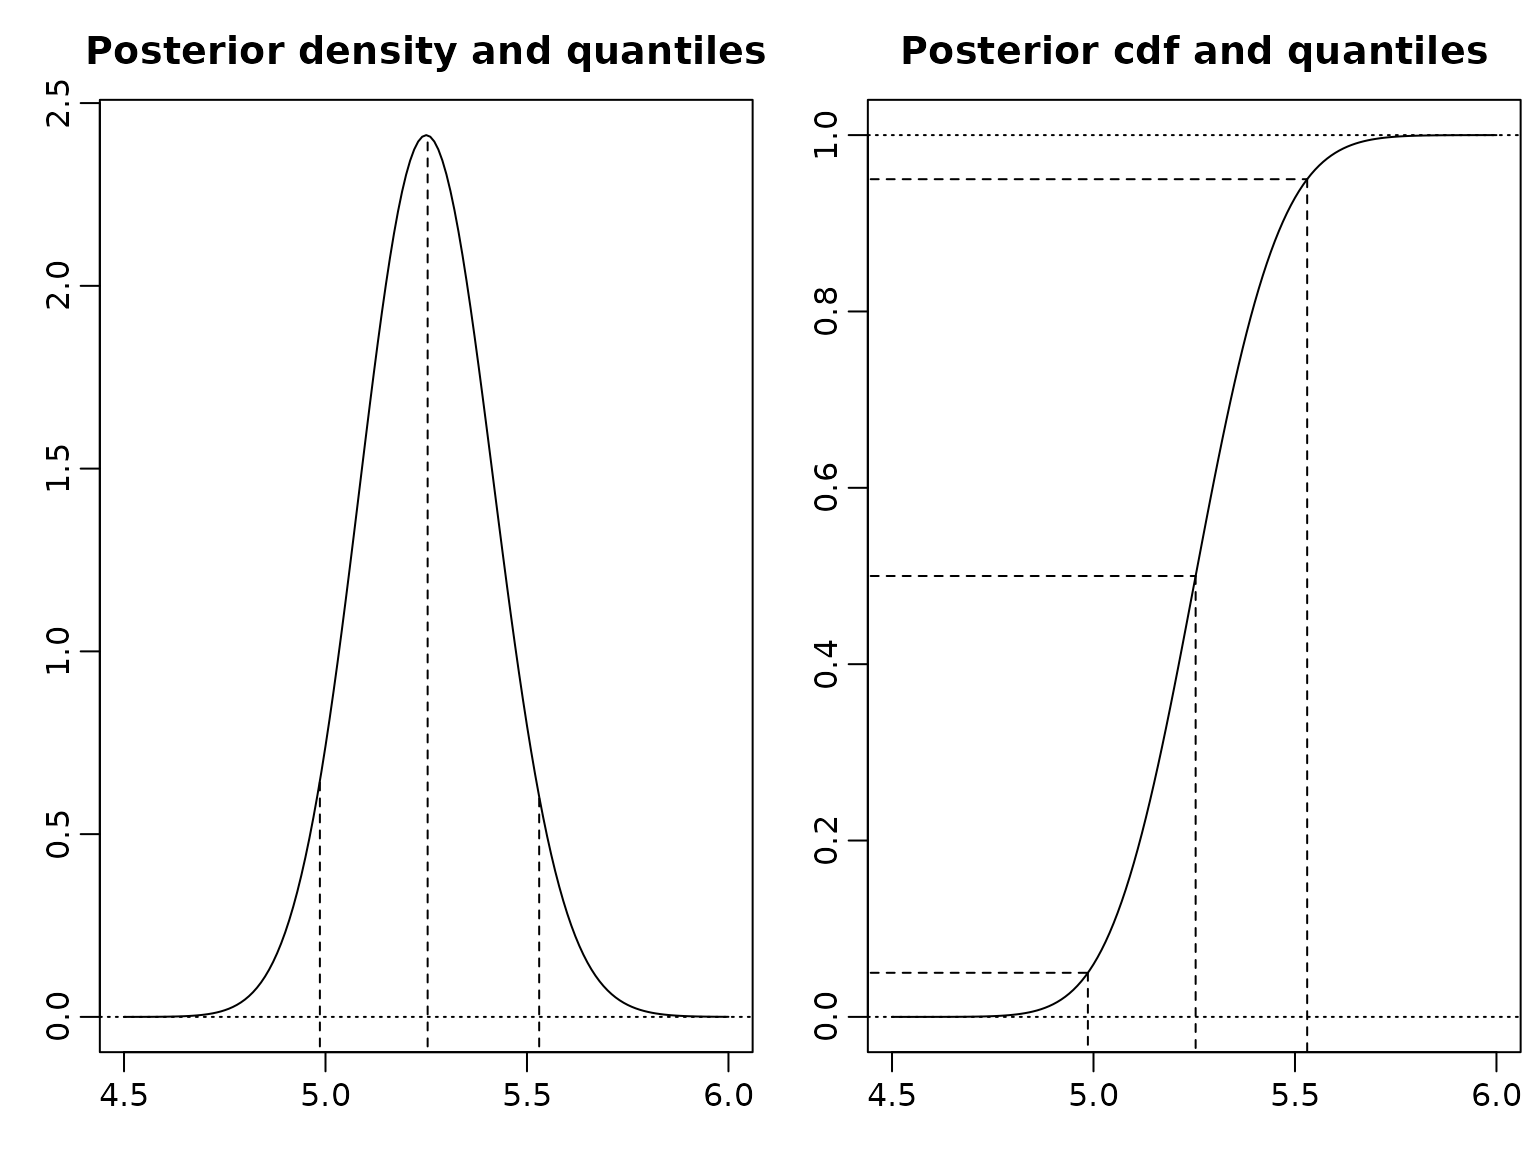
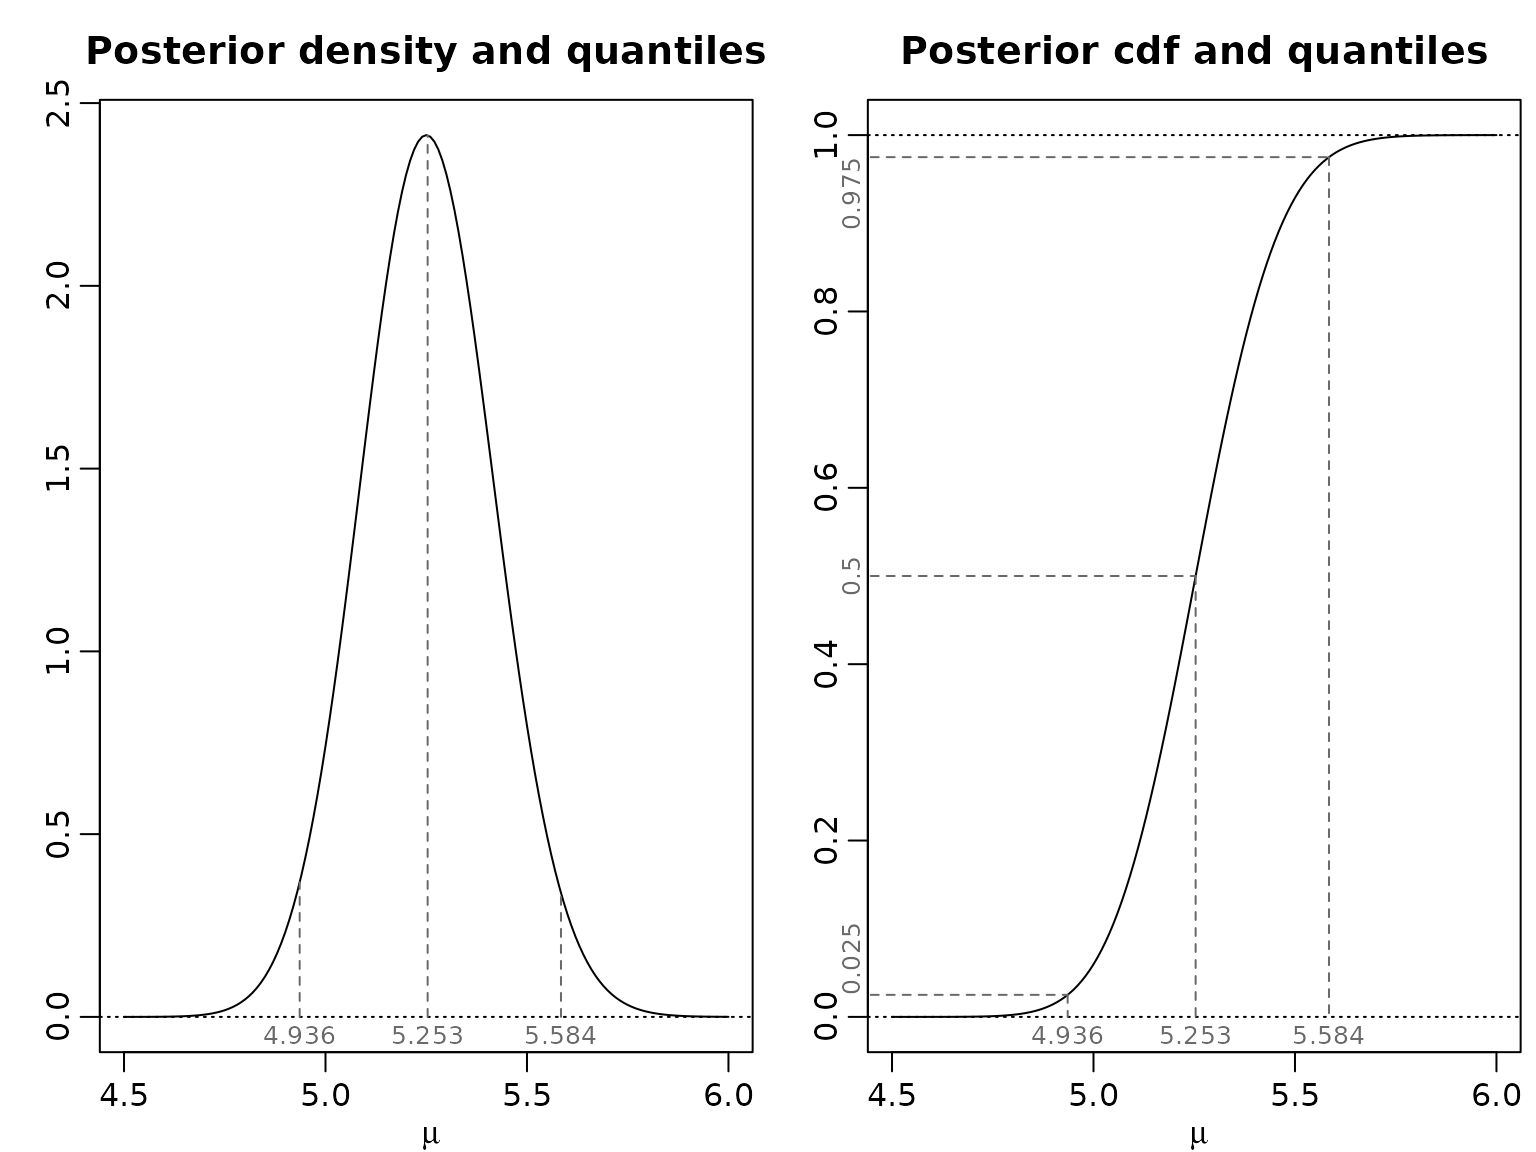
Deploying to gh-pages from @ gregorkastner/BayesianLearningCode@9eb153d684c14a89096cbc33a3e6a927a2568a2b 🚀

diff --git a/articles/Chapter02.html b/articles/Chapter02.html
@@ -84,7 +84,7 @@
 <span><span class="co">#&gt;  Mean   :1.839      Mean   :8856      Mean   : 5.25     Mean   :43890   </span></span>
 <span><span class="co">#&gt;  3rd Qu.:3.000      3rd Qu.:9103      3rd Qu.: 7.00     3rd Qu.:44264   </span></span>
 <span><span class="co">#&gt;  Max.   :5.000      Max.   :9204      Max.   :15.00     Max.   :44671</span></span>
-<span><span class="fu"><a href="https://rdrr.io/r/graphics/plot.default.html" class="external-link">plot</a></span><span class="op">(</span><span class="va">accidents</span><span class="op">[</span>,<span class="fl">1</span><span class="op">:</span><span class="fl">2</span><span class="op">]</span>, mar <span class="op">=</span> <span class="fu"><a href="https://rdrr.io/r/base/c.html" class="external-link">c</a></span><span class="op">(</span><span class="fl">0</span>, <span class="fl">0</span>, <span class="fl">0</span>, <span class="fl">0</span><span class="op">)</span>, oma <span class="op">=</span> <span class="fu"><a href="https://rdrr.io/r/base/c.html" class="external-link">c</a></span><span class="op">(</span><span class="fl">3</span>, <span class="fl">3</span>, <span class="fl">1.5</span>, <span class="fl">.1</span><span class="op">)</span>,</span>
+<span><span class="fu"><a href="https://rdrr.io/r/graphics/plot.default.html" class="external-link">plot</a></span><span class="op">(</span><span class="va">accidents</span><span class="op">[</span>,<span class="fu"><a href="https://rdrr.io/r/base/c.html" class="external-link">c</a></span><span class="op">(</span><span class="st">"children_accidents"</span>, <span class="st">"children_exposure"</span><span class="op">)</span><span class="op">]</span>, mar <span class="op">=</span> <span class="fu"><a href="https://rdrr.io/r/base/c.html" class="external-link">c</a></span><span class="op">(</span><span class="fl">0</span>, <span class="fl">0</span>, <span class="fl">0</span>, <span class="fl">0</span><span class="op">)</span>, oma <span class="op">=</span> <span class="fu"><a href="https://rdrr.io/r/base/c.html" class="external-link">c</a></span><span class="op">(</span><span class="fl">3</span>, <span class="fl">3</span>, <span class="fl">1.5</span>, <span class="fl">.1</span><span class="op">)</span>,</span>
 <span>     main <span class="op">=</span> <span class="st">""</span>, xlab <span class="op">=</span> <span class="st">""</span>, ylab <span class="op">=</span> <span class="st">""</span>, ann <span class="op">=</span> <span class="cn">FALSE</span><span class="op">)</span></span>
 <span><span class="fu"><a href="https://rdrr.io/r/graphics/title.html" class="external-link">title</a></span><span class="op">(</span><span class="st">"Road accidents involving pedestrian children"</span>, line <span class="op">=</span> <span class="fl">1.7</span><span class="op">)</span></span>
 <span><span class="fu"><a href="https://rdrr.io/r/graphics/mtext.html" class="external-link">mtext</a></span><span class="op">(</span><span class="fu"><a href="https://rdrr.io/r/base/c.html" class="external-link">c</a></span><span class="op">(</span><span class="st">"Accidents"</span>, <span class="st">"Exposure"</span><span class="op">)</span>, side <span class="op">=</span> <span class="fl">2</span>, line <span class="op">=</span> <span class="fl">1.5</span>, adj <span class="op">=</span> <span class="fu"><a href="https://rdrr.io/r/base/c.html" class="external-link">c</a></span><span class="op">(</span><span class="fl">0.77</span>, <span class="fl">0.29</span><span class="op">)</span><span class="op">)</span></span>
@@ -92,7 +92,7 @@
 <p><img src="Chapter02_files/figure-html/unnamed-chunk-3-1.png" width="768"></p>
 <div class="sourceCode" id="cb2"><pre class="downlit sourceCode r">
 <code class="sourceCode R"><span></span>
-<span><span class="fu"><a href="https://rdrr.io/r/graphics/plot.default.html" class="external-link">plot</a></span><span class="op">(</span><span class="va">accidents</span><span class="op">[</span>,<span class="fl">3</span><span class="op">:</span><span class="fl">4</span><span class="op">]</span>, mar <span class="op">=</span> <span class="fu"><a href="https://rdrr.io/r/base/c.html" class="external-link">c</a></span><span class="op">(</span><span class="fl">0</span>, <span class="fl">0</span>, <span class="fl">0</span>, <span class="fl">0</span><span class="op">)</span>, oma <span class="op">=</span> <span class="fu"><a href="https://rdrr.io/r/base/c.html" class="external-link">c</a></span><span class="op">(</span><span class="fl">3</span>, <span class="fl">3</span>, <span class="fl">1.5</span>, <span class="fl">.1</span><span class="op">)</span>,</span>
+<span><span class="fu"><a href="https://rdrr.io/r/graphics/plot.default.html" class="external-link">plot</a></span><span class="op">(</span><span class="va">accidents</span><span class="op">[</span>,<span class="fu"><a href="https://rdrr.io/r/base/c.html" class="external-link">c</a></span><span class="op">(</span><span class="st">"seniors_accidents"</span>, <span class="st">"seniors_exposure"</span><span class="op">)</span><span class="op">]</span>, mar <span class="op">=</span> <span class="fu"><a href="https://rdrr.io/r/base/c.html" class="external-link">c</a></span><span class="op">(</span><span class="fl">0</span>, <span class="fl">0</span>, <span class="fl">0</span>, <span class="fl">0</span><span class="op">)</span>, oma <span class="op">=</span> <span class="fu"><a href="https://rdrr.io/r/base/c.html" class="external-link">c</a></span><span class="op">(</span><span class="fl">3</span>, <span class="fl">3</span>, <span class="fl">1.5</span>, <span class="fl">.1</span><span class="op">)</span>,</span>
 <span>     main <span class="op">=</span> <span class="st">""</span>, xlab <span class="op">=</span> <span class="st">""</span>, ylab <span class="op">=</span> <span class="st">""</span>, ann <span class="op">=</span> <span class="cn">FALSE</span><span class="op">)</span></span>
 <span><span class="fu"><a href="https://rdrr.io/r/graphics/title.html" class="external-link">title</a></span><span class="op">(</span><span class="st">"Road accidents involving pedestrian seniors"</span>, line <span class="op">=</span> <span class="fl">1.7</span><span class="op">)</span></span>
 <span><span class="fu"><a href="https://rdrr.io/r/graphics/mtext.html" class="external-link">mtext</a></span><span class="op">(</span><span class="fu"><a href="https://rdrr.io/r/base/c.html" class="external-link">c</a></span><span class="op">(</span><span class="st">"Accidents"</span>, <span class="st">"Exposure"</span><span class="op">)</span>, side <span class="op">=</span> <span class="fl">2</span>, line <span class="op">=</span> <span class="fl">1.5</span>, adj <span class="op">=</span> <span class="fu"><a href="https://rdrr.io/r/base/c.html" class="external-link">c</a></span><span class="op">(</span><span class="fl">0.77</span>, <span class="fl">0.29</span><span class="op">)</span><span class="op">)</span></span>
@@ -106,30 +106,35 @@
 <math display="block" xmlns="http://www.w3.org/1998/Math/MathML"><semantics><mrow><mi>μ</mi><mo stretchy="false" form="prefix">|</mo><mi>𝐲</mi><mo>∼</mo><mi>𝒢</mi><mrow><mo stretchy="true" form="prefix">(</mo><mi>N</mi><mover><mi>y</mi><mo accent="true">‾</mo></mover><mo>+</mo><mn>1</mn><mo>,</mo><mi>N</mi><mo stretchy="true" form="postfix">)</mo></mrow><mo>,</mo></mrow><annotation encoding="application/x-tex">
 \mu|\mathbf{y} \sim \mathcal G(N\bar y + 1, N),
 </annotation></semantics></math> which we visualize for the seniors,
-along with the 0.05-, the 0.5-, and the 0.95-quantile.</p>
+along with the 0.025-, the 0.5-, and the 0.975-quantile.</p>
 <div class="sourceCode" id="cb3"><pre class="downlit sourceCode r">
 <code class="sourceCode R"><span><span class="va">y</span> <span class="op">&lt;-</span> <span class="va">accidents</span><span class="op">[</span>,<span class="st">"seniors_accidents"</span><span class="op">]</span></span>
 <span><span class="va">aN</span> <span class="op">&lt;-</span> <span class="fu"><a href="https://rdrr.io/r/base/sum.html" class="external-link">sum</a></span><span class="op">(</span><span class="va">y</span><span class="op">)</span> <span class="op">+</span> <span class="fl">1</span></span>
 <span><span class="va">bN</span> <span class="op">&lt;-</span> <span class="fu"><a href="https://rdrr.io/r/base/length.html" class="external-link">length</a></span><span class="op">(</span><span class="va">y</span><span class="op">)</span></span>
 <span></span>
 <span><span class="va">x</span> <span class="op">&lt;-</span> <span class="fu"><a href="https://rdrr.io/r/base/seq.html" class="external-link">seq</a></span><span class="op">(</span><span class="fl">4.5</span>, <span class="fl">6</span>, by <span class="op">=</span> <span class="fl">0.01</span><span class="op">)</span></span>
-<span><span class="fu"><a href="https://rdrr.io/r/graphics/plot.default.html" class="external-link">plot</a></span><span class="op">(</span><span class="va">x</span>, <span class="fu"><a href="https://rdrr.io/r/stats/GammaDist.html" class="external-link">dgamma</a></span><span class="op">(</span><span class="va">x</span>, <span class="va">aN</span>, <span class="va">bN</span><span class="op">)</span>, type <span class="op">=</span> <span class="st">"l"</span>, xlab <span class="op">=</span> <span class="st">""</span>, ylab <span class="op">=</span> <span class="st">""</span>,</span>
+<span><span class="fu"><a href="https://rdrr.io/r/graphics/plot.default.html" class="external-link">plot</a></span><span class="op">(</span><span class="va">x</span>, <span class="fu"><a href="https://rdrr.io/r/stats/GammaDist.html" class="external-link">dgamma</a></span><span class="op">(</span><span class="va">x</span>, <span class="va">aN</span>, <span class="va">bN</span><span class="op">)</span>, type <span class="op">=</span> <span class="st">"l"</span>, xlab <span class="op">=</span> <span class="fu"><a href="https://rdrr.io/r/base/expression.html" class="external-link">expression</a></span><span class="op">(</span><span class="va">mu</span><span class="op">)</span>, ylab <span class="op">=</span> <span class="st">""</span>,</span>
 <span>     main <span class="op">=</span> <span class="st">"Posterior density and quantiles"</span><span class="op">)</span></span>
 <span><span class="fu"><a href="https://rdrr.io/r/graphics/abline.html" class="external-link">abline</a></span><span class="op">(</span>h <span class="op">=</span> <span class="fl">0</span>, lty <span class="op">=</span> <span class="fl">3</span><span class="op">)</span></span>
 <span></span>
-<span><span class="va">probs</span> <span class="op">&lt;-</span> <span class="fu"><a href="https://rdrr.io/r/base/c.html" class="external-link">c</a></span><span class="op">(</span><span class="fl">0.05</span>, <span class="fl">.5</span>, <span class="fl">.95</span><span class="op">)</span></span>
+<span><span class="va">probs</span> <span class="op">&lt;-</span> <span class="fu"><a href="https://rdrr.io/r/base/c.html" class="external-link">c</a></span><span class="op">(</span><span class="fl">0.025</span>, <span class="fl">.5</span>, <span class="fl">.975</span><span class="op">)</span></span>
 <span><span class="va">qs</span> <span class="op">&lt;-</span> <span class="fu"><a href="https://rdrr.io/r/stats/GammaDist.html" class="external-link">qgamma</a></span><span class="op">(</span><span class="va">probs</span>, <span class="va">aN</span>, <span class="va">bN</span><span class="op">)</span></span>
 <span><span class="va">ds</span> <span class="op">&lt;-</span> <span class="fu"><a href="https://rdrr.io/r/stats/GammaDist.html" class="external-link">dgamma</a></span><span class="op">(</span><span class="va">qs</span>, <span class="va">aN</span>, <span class="va">bN</span><span class="op">)</span></span>
 <span></span>
-<span><span class="kw">for</span> <span class="op">(</span><span class="va">i</span> <span class="kw">in</span> <span class="fu"><a href="https://rdrr.io/r/base/seq.html" class="external-link">seq_along</a></span><span class="op">(</span><span class="va">probs</span><span class="op">)</span><span class="op">)</span> <span class="fu"><a href="https://rdrr.io/r/graphics/lines.html" class="external-link">lines</a></span><span class="op">(</span><span class="fu"><a href="https://rdrr.io/r/base/c.html" class="external-link">c</a></span><span class="op">(</span><span class="va">qs</span><span class="op">[</span><span class="va">i</span><span class="op">]</span>, <span class="va">qs</span><span class="op">[</span><span class="va">i</span><span class="op">]</span><span class="op">)</span>, <span class="fu"><a href="https://rdrr.io/r/base/c.html" class="external-link">c</a></span><span class="op">(</span><span class="op">-</span><span class="fl">1</span>, <span class="va">ds</span><span class="op">[</span><span class="va">i</span><span class="op">]</span><span class="op">)</span>, lty <span class="op">=</span> <span class="fl">2</span><span class="op">)</span></span>
+<span><span class="kw">for</span> <span class="op">(</span><span class="va">i</span> <span class="kw">in</span> <span class="fu"><a href="https://rdrr.io/r/base/seq.html" class="external-link">seq_along</a></span><span class="op">(</span><span class="va">probs</span><span class="op">)</span><span class="op">)</span> <span class="op">{</span></span>
+<span>  <span class="fu"><a href="https://rdrr.io/r/graphics/lines.html" class="external-link">lines</a></span><span class="op">(</span><span class="fu"><a href="https://rdrr.io/r/base/c.html" class="external-link">c</a></span><span class="op">(</span><span class="va">qs</span><span class="op">[</span><span class="va">i</span><span class="op">]</span>, <span class="va">qs</span><span class="op">[</span><span class="va">i</span><span class="op">]</span><span class="op">)</span>, <span class="fu"><a href="https://rdrr.io/r/base/c.html" class="external-link">c</a></span><span class="op">(</span><span class="fl">0</span>, <span class="va">ds</span><span class="op">[</span><span class="va">i</span><span class="op">]</span><span class="op">)</span>, lty <span class="op">=</span> <span class="fl">2</span>, col <span class="op">=</span> <span class="st">"dimgrey"</span><span class="op">)</span></span>
+<span><span class="op">}</span></span>
+<span><span class="fu"><a href="https://rdrr.io/r/graphics/mtext.html" class="external-link">mtext</a></span><span class="op">(</span><span class="fu"><a href="https://rdrr.io/r/base/Round.html" class="external-link">round</a></span><span class="op">(</span><span class="va">qs</span>, <span class="fl">3</span><span class="op">)</span>, side <span class="op">=</span> <span class="fl">1</span>, at <span class="op">=</span> <span class="va">qs</span>, line <span class="op">=</span> <span class="op">-</span><span class="fl">1</span>, cex <span class="op">=</span> <span class="fl">0.8</span>, col <span class="op">=</span> <span class="st">"dimgrey"</span><span class="op">)</span></span>
 <span></span>
-<span><span class="fu"><a href="https://rdrr.io/r/graphics/plot.default.html" class="external-link">plot</a></span><span class="op">(</span><span class="va">x</span>, <span class="fu"><a href="https://rdrr.io/r/stats/GammaDist.html" class="external-link">pgamma</a></span><span class="op">(</span><span class="va">x</span>, <span class="va">aN</span>, <span class="va">bN</span><span class="op">)</span>, type <span class="op">=</span> <span class="st">"l"</span>, xlab <span class="op">=</span> <span class="st">""</span>, ylab <span class="op">=</span> <span class="st">""</span>,</span>
+<span><span class="fu"><a href="https://rdrr.io/r/graphics/plot.default.html" class="external-link">plot</a></span><span class="op">(</span><span class="va">x</span>, <span class="fu"><a href="https://rdrr.io/r/stats/GammaDist.html" class="external-link">pgamma</a></span><span class="op">(</span><span class="va">x</span>, <span class="va">aN</span>, <span class="va">bN</span><span class="op">)</span>, type <span class="op">=</span> <span class="st">"l"</span>, xlab <span class="op">=</span> <span class="fu"><a href="https://rdrr.io/r/base/expression.html" class="external-link">expression</a></span><span class="op">(</span><span class="va">mu</span><span class="op">)</span>, ylab <span class="op">=</span> <span class="st">""</span>,</span>
 <span>     main <span class="op">=</span> <span class="st">"Posterior cdf and quantiles"</span><span class="op">)</span></span>
 <span><span class="fu"><a href="https://rdrr.io/r/graphics/abline.html" class="external-link">abline</a></span><span class="op">(</span>h <span class="op">=</span> <span class="fu"><a href="https://rdrr.io/r/base/c.html" class="external-link">c</a></span><span class="op">(</span><span class="fl">0</span>, <span class="fl">1</span><span class="op">)</span>, lty <span class="op">=</span> <span class="fl">3</span><span class="op">)</span></span>
+<span><span class="fu"><a href="https://rdrr.io/r/graphics/mtext.html" class="external-link">mtext</a></span><span class="op">(</span><span class="fu"><a href="https://rdrr.io/r/base/Round.html" class="external-link">round</a></span><span class="op">(</span><span class="va">probs</span>, <span class="fl">3</span><span class="op">)</span>, side <span class="op">=</span> <span class="fl">2</span>, at <span class="op">=</span> <span class="va">probs</span>, adj <span class="op">=</span> <span class="fu"><a href="https://rdrr.io/r/base/c.html" class="external-link">c</a></span><span class="op">(</span><span class="fl">0</span>, <span class="fl">.5</span>, <span class="fl">1</span><span class="op">)</span>, cex <span class="op">=</span> <span class="fl">.8</span>, col <span class="op">=</span> <span class="st">"dimgrey"</span><span class="op">)</span></span>
+<span><span class="fu"><a href="https://rdrr.io/r/graphics/mtext.html" class="external-link">mtext</a></span><span class="op">(</span><span class="fu"><a href="https://rdrr.io/r/base/Round.html" class="external-link">round</a></span><span class="op">(</span><span class="va">qs</span>, <span class="fl">3</span><span class="op">)</span>, side <span class="op">=</span> <span class="fl">1</span>, at <span class="op">=</span> <span class="va">qs</span>, line <span class="op">=</span> <span class="op">-</span><span class="fl">1</span>, cex <span class="op">=</span> <span class="fl">0.8</span>, col <span class="op">=</span> <span class="st">"dimgrey"</span><span class="op">)</span></span>
 <span></span>
 <span><span class="kw">for</span> <span class="op">(</span><span class="va">i</span> <span class="kw">in</span> <span class="fu"><a href="https://rdrr.io/r/base/seq.html" class="external-link">seq_along</a></span><span class="op">(</span><span class="va">probs</span><span class="op">)</span><span class="op">)</span> <span class="op">{</span></span>
-<span>  <span class="fu"><a href="https://rdrr.io/r/graphics/lines.html" class="external-link">lines</a></span><span class="op">(</span><span class="fu"><a href="https://rdrr.io/r/base/c.html" class="external-link">c</a></span><span class="op">(</span><span class="fl">.9</span><span class="op">*</span><span class="fu"><a href="https://rdrr.io/r/base/Extremes.html" class="external-link">min</a></span><span class="op">(</span><span class="va">x</span><span class="op">)</span>, <span class="va">qs</span><span class="op">[</span><span class="va">i</span><span class="op">]</span><span class="op">)</span>, <span class="fu"><a href="https://rdrr.io/r/base/c.html" class="external-link">c</a></span><span class="op">(</span><span class="va">probs</span><span class="op">[</span><span class="va">i</span><span class="op">]</span>, <span class="va">probs</span><span class="op">[</span><span class="va">i</span><span class="op">]</span><span class="op">)</span>, lty <span class="op">=</span> <span class="fl">2</span><span class="op">)</span></span>
-<span>  <span class="fu"><a href="https://rdrr.io/r/graphics/lines.html" class="external-link">lines</a></span><span class="op">(</span><span class="fu"><a href="https://rdrr.io/r/base/c.html" class="external-link">c</a></span><span class="op">(</span><span class="va">qs</span><span class="op">[</span><span class="va">i</span><span class="op">]</span>, <span class="va">qs</span><span class="op">[</span><span class="va">i</span><span class="op">]</span><span class="op">)</span>, <span class="fu"><a href="https://rdrr.io/r/base/c.html" class="external-link">c</a></span><span class="op">(</span><span class="va">probs</span><span class="op">[</span><span class="va">i</span><span class="op">]</span>, <span class="op">-</span><span class="fl">1</span><span class="op">)</span>, lty <span class="op">=</span> <span class="fl">2</span><span class="op">)</span></span>
+<span>  <span class="fu"><a href="https://rdrr.io/r/graphics/lines.html" class="external-link">lines</a></span><span class="op">(</span><span class="fu"><a href="https://rdrr.io/r/base/c.html" class="external-link">c</a></span><span class="op">(</span><span class="fl">.9</span><span class="op">*</span><span class="fu"><a href="https://rdrr.io/r/base/Extremes.html" class="external-link">min</a></span><span class="op">(</span><span class="va">x</span><span class="op">)</span>, <span class="va">qs</span><span class="op">[</span><span class="va">i</span><span class="op">]</span><span class="op">)</span>, <span class="fu"><a href="https://rdrr.io/r/base/c.html" class="external-link">c</a></span><span class="op">(</span><span class="va">probs</span><span class="op">[</span><span class="va">i</span><span class="op">]</span>, <span class="va">probs</span><span class="op">[</span><span class="va">i</span><span class="op">]</span><span class="op">)</span>, lty <span class="op">=</span> <span class="fl">2</span>, col <span class="op">=</span> <span class="st">"dimgrey"</span><span class="op">)</span></span>
+<span>  <span class="fu"><a href="https://rdrr.io/r/graphics/lines.html" class="external-link">lines</a></span><span class="op">(</span><span class="fu"><a href="https://rdrr.io/r/base/c.html" class="external-link">c</a></span><span class="op">(</span><span class="va">qs</span><span class="op">[</span><span class="va">i</span><span class="op">]</span>, <span class="va">qs</span><span class="op">[</span><span class="va">i</span><span class="op">]</span><span class="op">)</span>, <span class="fu"><a href="https://rdrr.io/r/base/c.html" class="external-link">c</a></span><span class="op">(</span><span class="va">probs</span><span class="op">[</span><span class="va">i</span><span class="op">]</span>, <span class="fl">0</span><span class="op">)</span>, lty <span class="op">=</span> <span class="fl">2</span>, col <span class="op">=</span> <span class="st">"dimgrey"</span><span class="op">)</span></span>
 <span><span class="op">}</span></span></code></pre></div>
 <p><img src="Chapter02_files/figure-html/unnamed-chunk-4-1.png" width="768"></p>
 </div>
